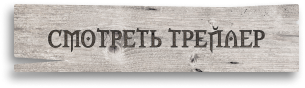
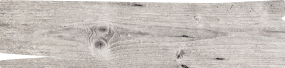
add Day2 - styling deskop version

diff --git a/index.html b/index.html
@@ -5,13 +5,18 @@
     <meta http-equiv="X-UA-Compatible" content="IE=edge">
     <meta name="viewport" content="width=device-width, initial-scale=1.0">
     <title>The Witcher | Ведьмак | 2 сезон 17 декабря</title>
+    <link rel="preload" 
+        href="fonts/ibm-plex-mono-latin_cyrillic-500.woff2"
+        as="font"
+        type="font/woff2"
+        crossorigin>
     <link rel="stylesheet" href="css/index.css">
 </head>
 <body>
     <header class="header">
-        <div class="container">
+        <div class="container header__container">
             <img src="img/logo.svg" alt="Лого сериала Witcher" class="header__logo">
-            <p class="header_announcement">2 сезон уже с 17 декабря</p>
+            <p class="header__announcement">2 сезон уже с 17 декабря</p>
             <nav class="header__navigation navigation">
                 <ul class="navigation__list">
                     <li class="navigation__item">
@@ -28,11 +33,11 @@
         </div>
     </header>
     <section class="present">
-        <div class="container">
+        <div class="container present__container">
             <div class="present__hero">
                 <h1 class="present__title">Ведьмак</h1>
                 <p class="present__tagline">Те, кто связан предназначением, всегда найдут друг друга</p>
-                <a href="https://youtu.be/aTPPmHqMZOw" class="present__btn">Смотреть трейлер</a>
+                <a href="https://youtu.be/aTPPmHqMZOw" class="present__btn"></a>
             </div>
             <div class="present__tabs tabs">
                 <ul class="tabs__control">

diff --git a/css/navigation.css b/css/navigation.css
@@ -1,0 +1,47 @@
+.navigation__list{
+    display: flex;
+    gap: 25px;
+}
+
+.navigation__item{
+
+}
+
+.navigation__link{
+    display: block;
+    width: 40px;
+    height: 40px;
+    background-color: rgba(255, 255, 255, 0.7);
+    background-position:  center;    
+    background-repeat:  no-repeat;
+    background-size:auto;
+    border-radius: 50%;
+    border: 1px solid transparent;
+    outline: 0;
+    transition: border 0.3s ease-in-out, box-shadow 0.3s ease-in-out, background-color 0.3s ease-in-out;
+}
+
+.navigation__link:hover{
+    background-color: #fff;
+}
+
+.navigation__link:active{
+    background-color: #fff;
+    box-shadow: 0px 1px 5px rgba(0, 0, 0, 0.7);
+}
+
+.navigation__link:focus{
+    background-color: #fff;
+    border-color: #5B5B5B;
+}
+
+.navigation__link_netflix {
+    background-image: url(../img/netflix.svg);
+    
+}
+.navigation__link_okko {
+    background-image: url(../img/okko.svg);
+}
+.navigation__link_kinopoisk {
+    background-image: url(../img/kinopoisk.svg);
+}

diff --git a/css/present.css b/css/present.css
@@ -1,0 +1,30 @@
+.present {
+    padding-top: 27px;
+}
+.present__title{
+    font-family: 'IBM Plex Mono';    
+    font-weight: 500;
+    font-size: 90px;
+    line-height: 120%;
+    margin-bottom: 8px;
+}
+
+.present__tagline{
+    font-family: Arial;    
+    font-weight: normal;
+    font-size: 20px;
+    line-height: 130%;
+    margin-bottom: 54px;
+}
+
+.present__btn {
+    display: block;
+    width: 285px;
+    height: 68px;
+    background-image: url(../img/button.png);
+    filter: drop-shadow( -4px 6px 10px rgba(10, 10, 10, 0.51));
+    border-radius: 2px;
+    background-position: center;
+    background-size: cover;
+}
+/*27:40*/

diff --git a/css/header.css b/css/header.css
@@ -1,0 +1,18 @@
+.header{
+    padding-top: 20px;
+    padding-bottom: 10px;
+}
+
+.header__container{
+    display: grid;
+    grid-template-columns: repeat(3, 1fr);
+    align-items: center;
+}
+
+.header__announcement{
+    justify-self: center;
+}
+
+.header__navigation{
+    justify-self: end;
+}

diff --git a/css/index.css b/css/index.css
@@ -1,3 +1,6 @@
 @import "normalize.css";
 @import "fonts.css";
 @import "page.css";
+@import "header.css";
+@import "navigation.css";
+@import "present.css";

diff --git a/README.md b/README.md
@@ -28,3 +28,11 @@ CSS подготовка к стилизации\
 Normalize - нормализация стилей\
 Squoosh - поменять формат изображения и оптимизировать\
 Шрифт Ibm Implex Mono\
+
+### Day2 ###\
+Пишем стили для десктоп версии
+Обязательное задание:\
+Повторить то, что было в видео\
+
+Не обязательное задание:\
+Добавить эффекты hover, active и focus по ui kit
